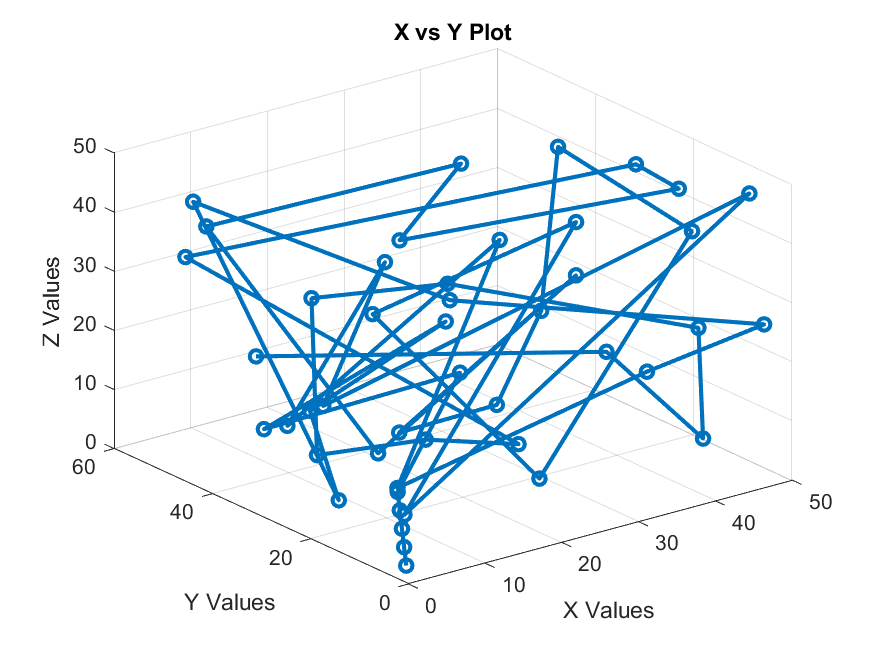
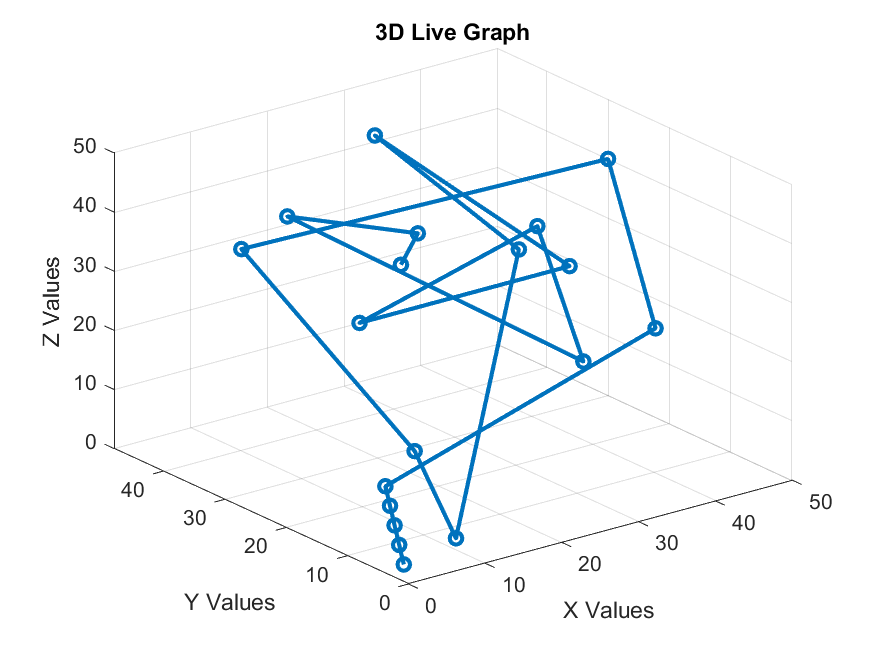
Not create matlab graph

diff --git a/trajectoryFreaks/mat.py b/trajectoryFreaks/mat.py
@@ -2,36 +2,52 @@ import matlab.engine
 import time
 import os
 from random import randint
+
 # Start MATLAB Engine
 eng = matlab.engine.start_matlab()
 
 # Define image path
 image_path = "static/images/graph.png"
 
-# Initialize x-values
-
-x = [1, 2, 3, 4, 5]  # Replace with your x values
-y = [2, 4, 6, 8, 10]  # Replace with your y values
+# Initialize x, y, z values
+x = [1, 2, 3, 4, 5]
+y = [2, 4, 6, 8, 10]
 z = [2, 4, 6, 8, 10]
+
+# Convert to MATLAB format
+x_mat = matlab.double(x)
+y_mat = matlab.double(y)
+z_mat = matlab.double(z)
+
+# Create figure and plot **(only once)**
+eng.figure('Visible', 'off', nargout=0)  # Hide the figure
+graph_handle = eng.plot3(x_mat, y_mat, z_mat, 'o-', 'LineWidth', 2, nargout=1)
+
+eng.xlabel('X Values', nargout=0)
+eng.ylabel('Y Values', nargout=0)
+eng.zlabel('Z Values', nargout=0)
+eng.title('3D Live Graph', nargout=0)
+eng.grid('on', nargout=0)
+
+# Loop to update data **without displaying a graph**
 while True:
-    x.append(randint(1,50))
-    y.append(randint(1,50))
-    z.append(randint(1,50))
+    # Add new random points
+    x.append(randint(1, 50))
+    y.append(randint(1, 50))
+    z.append(randint(1, 50))
+
+    # Convert updated lists to MATLAB arrays
     x_mat = matlab.double(x)
     y_mat = matlab.double(y)
     z_mat = matlab.double(z)
 
-    # Plot in MATLAB
-    eng.figure(nargout=0)
-    eng.plot3(x_mat, y_mat,z_mat, 'o-', 'LineWidth', 2, nargout=0)
-    eng.xlabel('X Values', nargout=0)
-    eng.ylabel('Y Values', nargout=0)
-    eng.zlabel('Z Values', nargout=0)
-    eng.title('X vs Y Plot', nargout=0)
-    eng.grid('on', nargout=0)
+    # Update the existing plot (do not create a new figure)
+    eng.set(graph_handle, 'XData', x_mat, 'YData', y_mat, 'ZData', z_mat, nargout=0)
 
-    eng.saveas(eng.gcf(), 'static/images/graph.png', 'png', nargout=0)
-    print(f"Updated Graph:points")
+    # Save the updated graph **without opening MATLAB**
+    eng.saveas(eng.gcf(), image_path, 'png', nargout=0)
+
+    print("Graph updated and saved.")
 
     # Wait 1 second before updating
     time.sleep(1)
